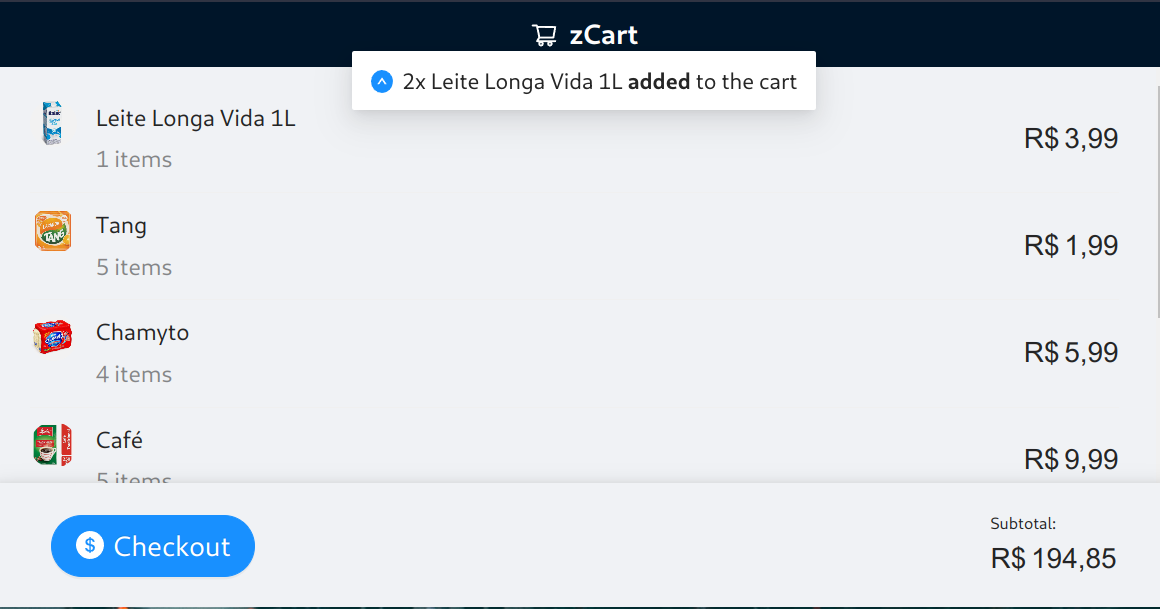
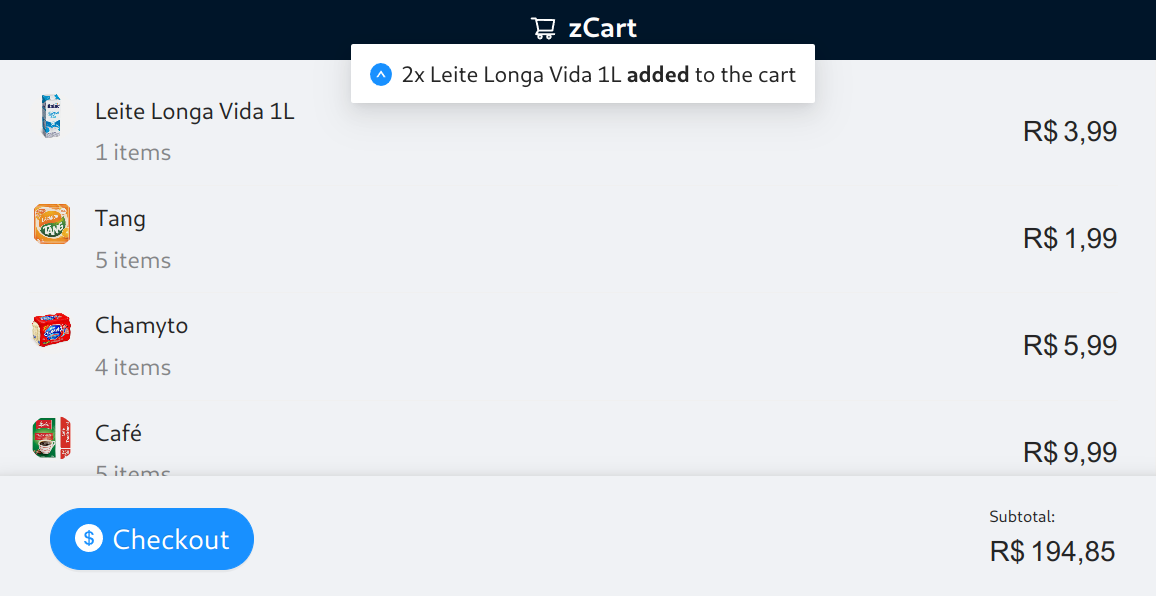
feat(tcc): improve images and add hx711 section

diff --git a/docs/tcc/main.tex b/docs/tcc/main.tex
@@ -428,6 +428,24 @@ This section can be skipped for readers with familiarity on the topics discussed
 
 \section{HX711}
 
+The HX711 is a 24-bit analog-to-digital converter (\sigla{ADC}{Analog-to-Digital Converter})
+capable of outputting data in a Serial Interface (ADD CITATION).
+
+It has two channels for analog input with channel A having programable gains of 128 or 64.
+
+For power supply, it can be used with both 3.3\simbolo{V}{Volts} and 5 V standard digital voltages.
+
+One of its advantages is is that there's no need to program internal registers, all
+controls to the chip are through its pins.
+
+\begin{figure}[H]
+	\centering
+	\includegraphics[width=1\textwidth]{./images/hx711-pinout.png}
+	\caption[HX711 Pinout for the SOP-16L package]{HX711 Pinout for the SOP-16L package}
+    \fonte{\cite{Avia2022}}
+	\label{fig:architecture}
+\end{figure}
+
 \section{RESTful APIs}
 
 \section{SQLite}
@@ -438,7 +456,7 @@ This section can be skipped for readers with familiarity on the topics discussed
 \label{chap:desenv}
 
 As a first step in developing our prototype, a high level set of
-responsabilities was established:
+responsibilities was established:
 
 \begin{enumerate}
     \item Handle user interactions and give visual feedback
@@ -482,6 +500,13 @@ Computer (\sigla{SBC}{Single Board Computer}).
 	\label{fig:architecture}
 \end{figure}
 
+\begin{figure}[H]
+	\centering
+	\includegraphics[width=1\textwidth]{./images/E2E.png}
+	\caption[End-to-end sequence of interactions]{End-to-end sequence of interactions}
+	\fonte{Own work}
+	\label{fig:dummy}
+\end{figure}
 
 \subsection{Architectural Guidelines}
 In creating the zCart architecture, the following guidelines were followed:
@@ -501,6 +526,39 @@ responsabilities. \cite{Sam2021,Kong2022}
 
 In the sections that follow, each application will be further detailed.
 
+\section{User App}
+
+For developing the User App, we have used web technologies such as HTML, CSS and JavaScript (ADD CITATION) through the 
+React\footnote{htps://reactjs.org} framework. 
+
+Using web based technologies allows the User App to be display on any device capable of running a web browser and
+the mature ecosystem lends.
+
+Although developing Linux native graphical applications through toolkits such
+as GTK\footnote{https://gtk.org} and Qt\footnote{https://qt.io} might have
+yield better performance, our familiarity with web based technologies was a
+key deciding factor in favor of using those.
+
+\begin{figure}[H]
+	\centering
+	\includegraphics[width=0.8\textwidth]{./images/ui.png}
+	\caption[User App Interface display a single product]{User App Interface displaying a single product}
+	\fonte{Own work}
+	\label{fig:dummy}
+\end{figure}
+
+\begin{figure}[H]
+	\centering
+	\includegraphics[width=0.8\textwidth]{./images/lcddisplay.jpeg}
+	\caption[LCD Display showing the User App]{LCD Display showing the User App}
+	\fonte{Own work}
+	\label{fig:dummy}
+\end{figure}
+
+\section{Product Recognizer}
+
+\subsection{Weight Sensor}
+
 \begin{figure}[H]
 	\centering
 	\includegraphics[width=0.5\textwidth]{./images/hx711.jpeg}
@@ -513,15 +571,6 @@ In the sections that follow, each application will be further detailed.
 	\centering
 	\includegraphics[width=0.8\textwidth]{./images/raspberrypiwithloadcell.jpeg}
 	\caption[Scheme used during development, including the Raspberry Pi and load cell assembly]{Scheme used during development, including the Raspberry Pi and load cell assembly}
-	\fonte{Own work}
-	\label{fig:dummy}
-\end{figure}
-
-
-\begin{figure}[H]
-	\centering
-	\includegraphics[width=1\textwidth]{./images/E2E.png}
-	\caption[End-to-end sequence of interactions]{End-to-end sequence of interactions}
 	\fonte{Own work}
 	\label{fig:dummy}
 \end{figure}
@@ -541,6 +590,7 @@ In the sections that follow, each application will be further detailed.
 	\fonte{Own work}
 	\label{fig:dummy}
 \end{figure}
+
 
 \section{Siglas e símbolos}
 
@@ -563,31 +613,31 @@ In the sections that follow, each application will be further detailed.
 \begin{figure}[H]
 	\centering
 	\includegraphics[width=1\textwidth]{./images/userapp.png}
-	\caption[]{Thread communication for the Product Recognizer App}
+	\caption[Product listing and subtotal]{Product listing and subtotal}
 \end{figure}
 
 \begin{figure}[H]
 	\centering
 	\includegraphics[width=1\textwidth]{./images/userapp2.png}
-	\caption[]{Thread communication for the Product Recognizer App}
+	\caption[Item addition notification]{Item addition notification}
 \end{figure}
 
 \begin{figure}[H]
 	\centering
 	\includegraphics[width=1\textwidth]{./images/userapp3.png}
-	\caption[]{Thread communication for the Product Recognizer App}
+	\caption[Item removal notification]{Item removal notification}
 \end{figure}
 
 \begin{figure}[H]
 	\centering
 	\includegraphics[width=1\textwidth]{./images/userapp4.png}
-	\caption[]{Thread communication for the Product Recognizer App}
+	\caption[Pre-checkout confirmation popup]{Pre-checkout confirmation popup}
 \end{figure}
 
 \begin{figure}[H]
 	\centering
 	\includegraphics[width=1\textwidth]{./images/userapp5.png}
-	\caption[]{Thread communication for the Product Recognizer App}
+	\caption[Post checkout screen]{Post checkout screen}
 \end{figure}
 
 \anexo
